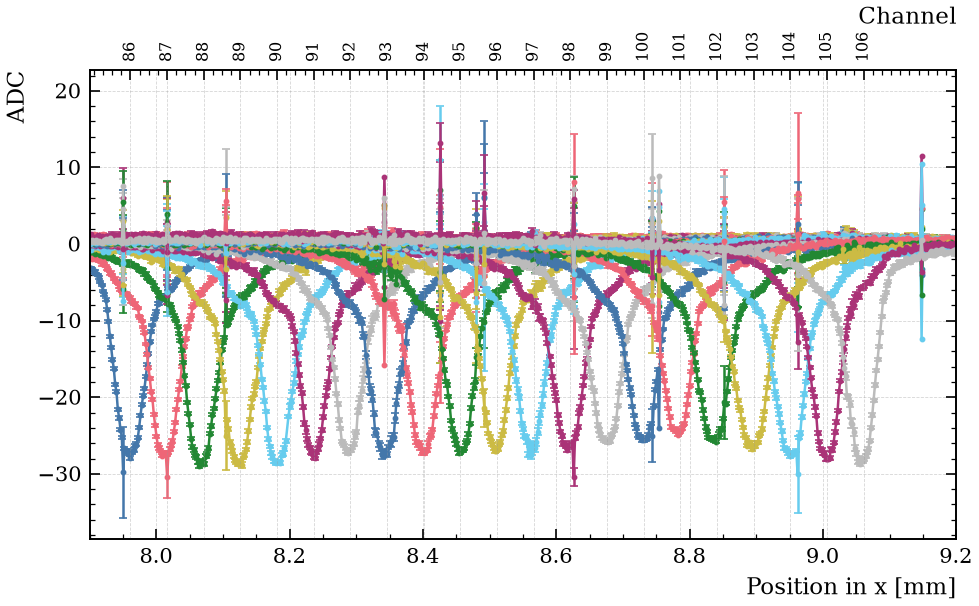
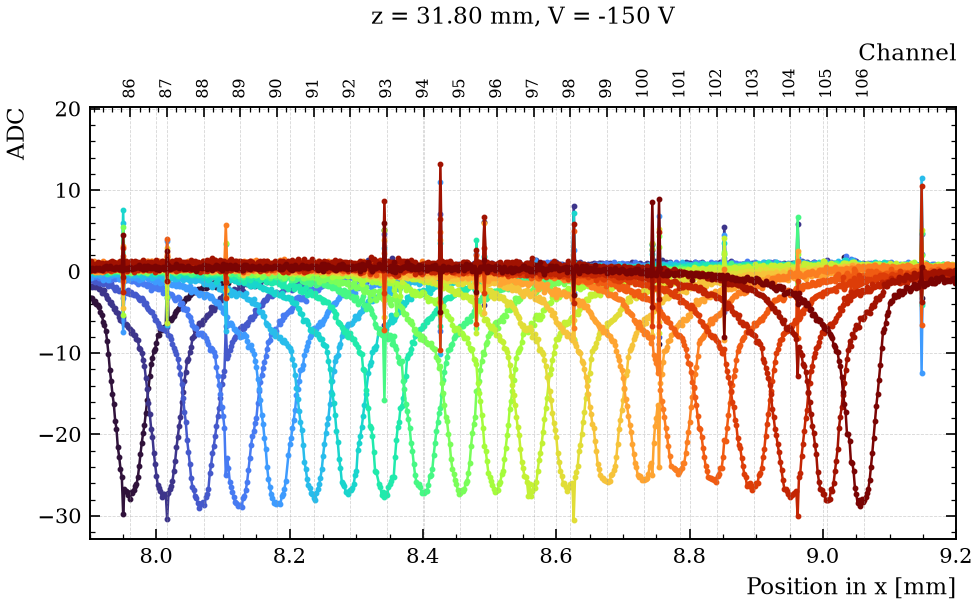
ana

Changed region(s): [[0.0306, 0.0, 0.9806, 0.8614], [0.0, 0.1188, 0.0306, 0.2673], [0.0613, 0.2673, 0.0919, 0.3267]]

diff --git a/x-scan.py b/x-scan.py
@@ -57,7 +57,7 @@ class XScan(BaseAnalysis):
             index="x", columns="channel", values="value", aggfunc="mean")
         active = hits.columns[hits.sum() > 0.05 * hits.sum().max()]   # channels with real hits
 
-        # All channels at once
+        # Heatmap channels vs x pos
         fig, ax = plt.subplots(1, 1)
         mesh = ax.pcolormesh(hits.index, hits.columns, hits.T.to_numpy(), shading="nearest")
         fig.colorbar(mesh, label="Hits")
@@ -132,7 +132,6 @@ class XScan(BaseAnalysis):
 
         """" --------------- ADC PLOTS ---------------"""
 
-        # ADC MEAN PER CHANNEL
         d = self.get(ADC_CLEAN)
         # Average over the runs for each channel
         d = d.astype({"x": float, "channel": float, "value": float, "error": float, "z": float, "voltage": float})
@@ -145,18 +144,47 @@ class XScan(BaseAnalysis):
         zs, volts = d["z"].unique(), d["voltage"].unique()
         title = f"z = {', '.join(f'{v:.2f}' for v in sorted(zs))} mm, V = {', '.join(f'{v:g}' for v in sorted(volts))} V"
 
+        # ADC vs pos and channel
         self.plot_adc(adc_x, err_x, active, visible, title, adcdir / "adc_vs_channel.png")
 
-        # CLEANING
-        # Do the same thing but clean values with errors larger than 1
-        # and adc above 2
+        # Cleaning
+        adc_clean = adc_x.copy()
+        err_clean = err_x.copy()
 
-        clean_mask_err = err_x < 1 # noisy events
-        clean_mask_adc = adc_x < 2 # outliers
-        adc_x = adc_x[clean_mask_err][clean_mask_adc]
-        err_x = err_x[clean_mask_err][clean_mask_adc]
+        k = 5
+        for ch in adc_x.columns:
+            y = adc_x[ch]
+            sigma = 1.4826 * y.diff().abs().median() / np.sqrt(2)
 
-        self.plot_adc(adc_x, err_x, active, visible, title, adcdir / "adc_vs_channel_clean.png")
+            left, right = y.shift(1), y.shift(-1)
+            pos = (y - pd.concat([left, right], axis=1).max(axis=1)) > k * sigma
+            neg = (y - pd.concat([left, right], axis=1).min(axis=1)) < -k * sigma
+
+            spike = pos | neg
+            adc_clean.loc[spike, ch] = np.nan
+            err_clean.loc[spike, ch] = np.nan
+
+        self.plot_adc(adc_clean, err_clean, active, visible, title, adcdir / "adc_vs_channel_clean.png")
+
+        # Normalizing
+        adc_clean = adc_clean.abs() / adc_clean.abs().max()
+        err_clean = err_clean / adc_clean.min()
+        self.plot_adc(adc_clean, err_clean, active, visible, title, adcdir / "adc_vs_channel_normalized.png")
+
+        # Heatmap
+        fig, ax = plt.subplots(1, 1)
+        mesh = ax.pcolormesh(adc_clean.index, adc_clean.columns, adc_clean.T.to_numpy(), cmap='viridis', shading="nearest")
+        fig.colorbar(mesh, label="ADC")
+        ax.set_xlabel("Position in x [mm]")
+        ax.set_ylabel("Channel")
+        ax.set_ylim(active.min() - 3, active.max() + 3)   # skip the empty channels
+        ax.xaxis.set_minor_locator(tck.AutoMinorLocator())
+        ax.yaxis.set_minor_locator(tck.AutoMinorLocator())
+        ax.tick_params(which="both", width=1, direction="out")   
+        ax.set_title(title)
+        ax.set_xlim(self.cfg.xmin, self.cfg.xmax)
+        fig.savefig(adcdir / "adc_map.png", dpi=150)
+        plt.close(fig)
 
     def plot_adc(self, adc_x, err_x, active, visible, title, path) -> None:
         """Mean ADC vs x, one colour per channel, error as a faint band, channel numbers on top"""
@@ -167,7 +195,7 @@ class XScan(BaseAnalysis):
             colors[ch] = cmap(i)
             y, err = adc_x[ch], err_x[ch]
             ax.plot(adc_x.index, y, "-o", ms=2, color=colors[ch])
-            ax.fill_between(adc_x.index, y - err, y + err, color=colors[ch], alpha=0.2, lw=0)
+            # ax.fill_between(adc_x.index, y - err, y + err, color=colors[ch], alpha=0.2, lw=0)
         ax.set_xlim(self.cfg.xmin, self.cfg.xmax)
         ax.set_xlabel("Position in x [mm]")
         ax.set_ylabel("ADC")
